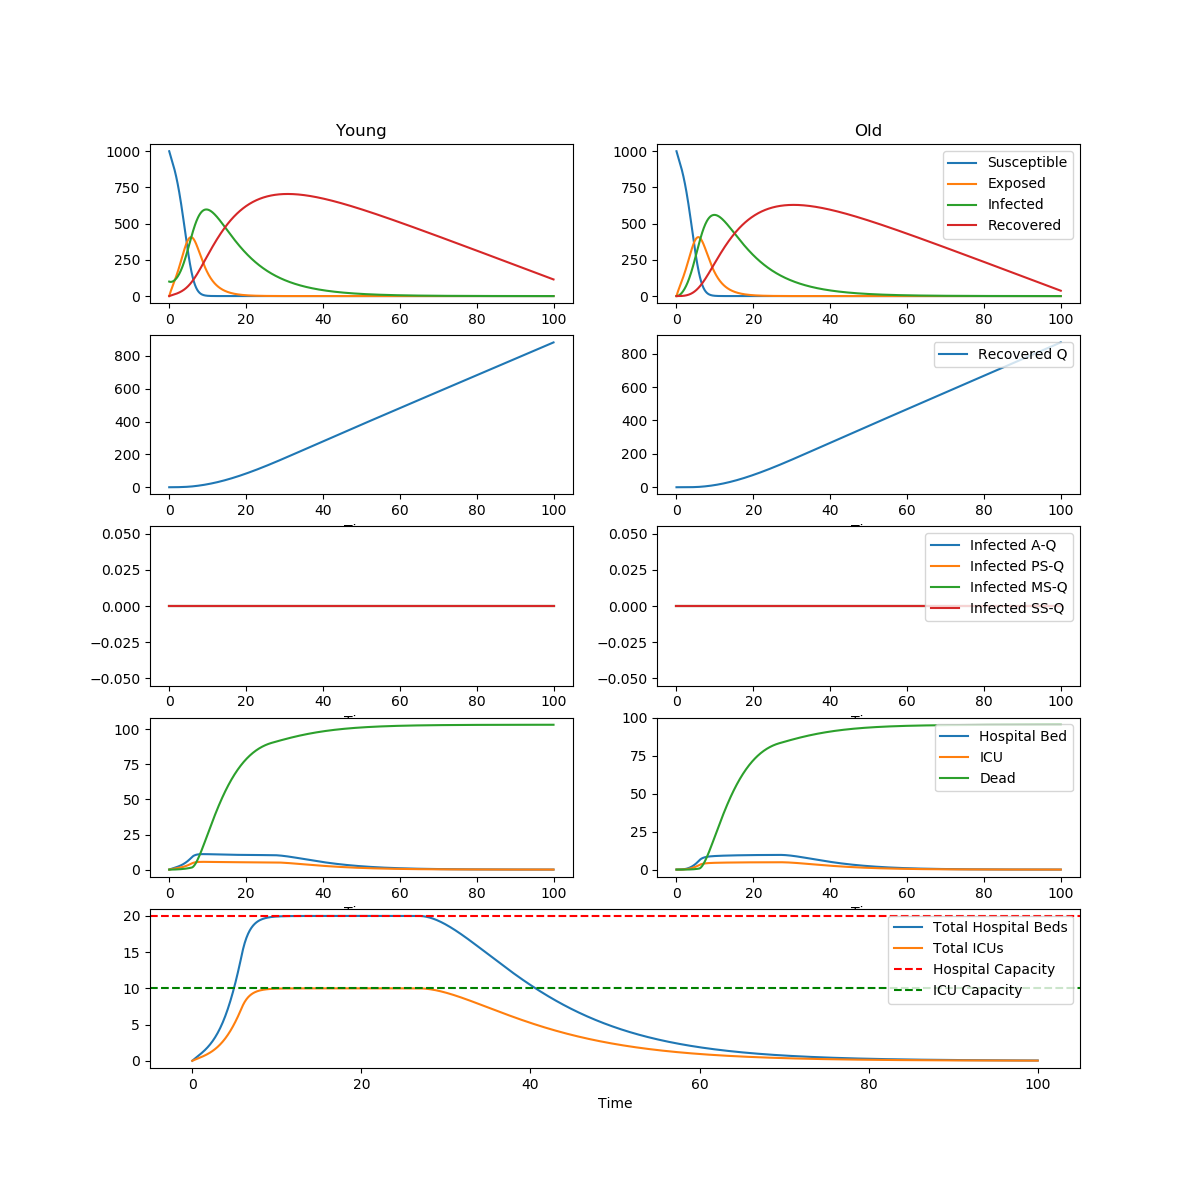
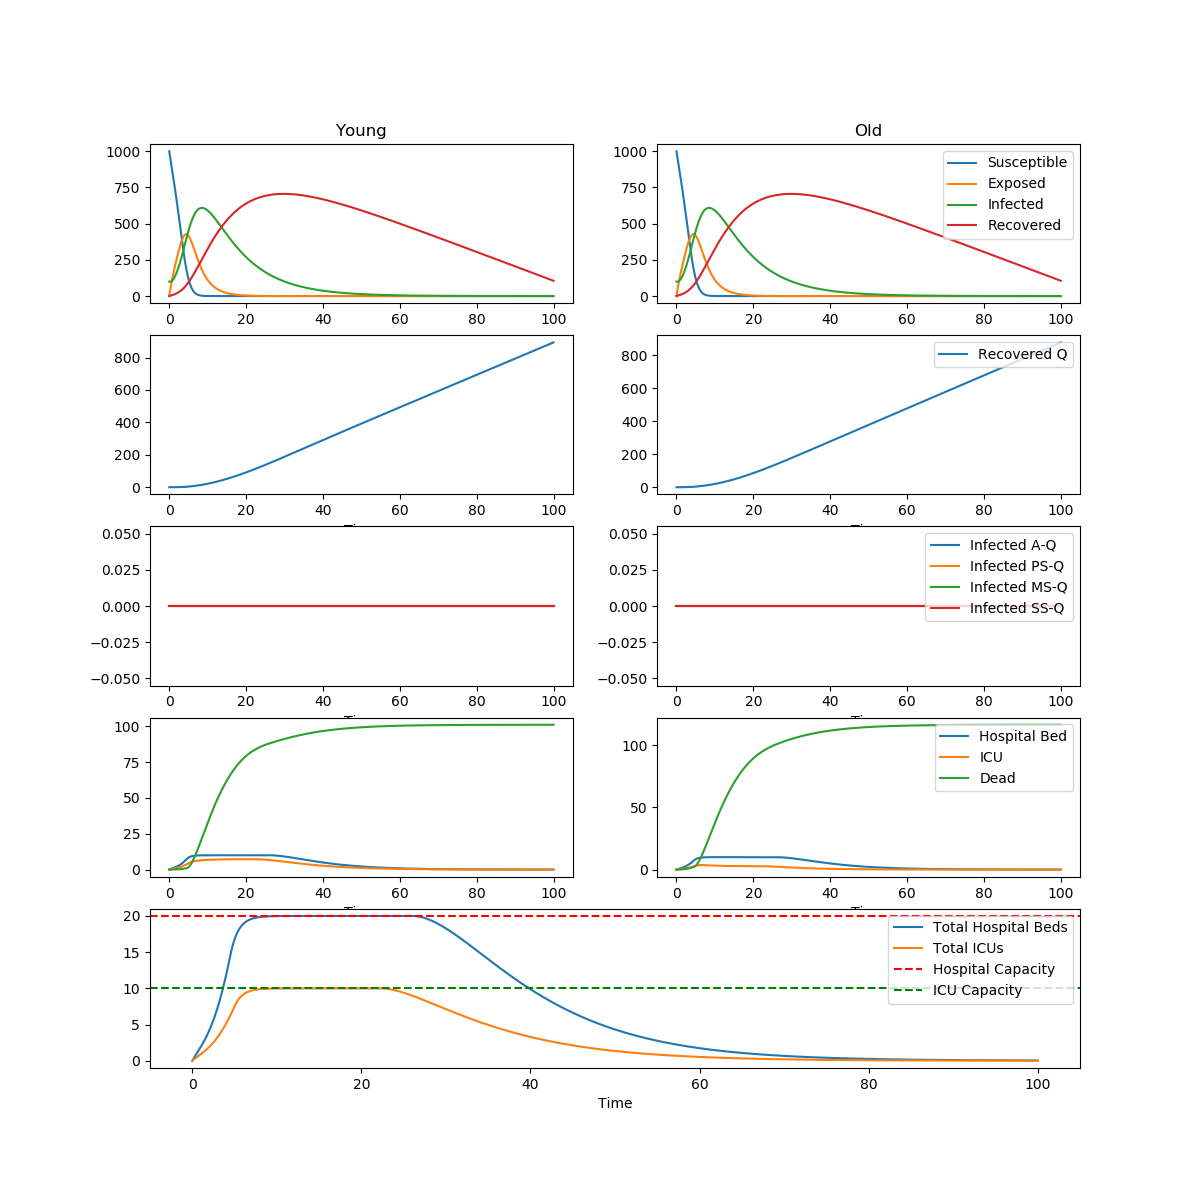
fixed bugs

diff --git a/group.py b/group.py
@@ -158,10 +158,10 @@ class SEIR_group:
 		self.E = [float(initial_conditions['E'])]
 		# Infected (unquarantined)
 		self.I = [float(initial_conditions['I'])]
-		# Unquarantined patients 
-		self.N = [self.S[0] + self.E[0] + self.I[0]]
 		# Recovered (unquarantined)
 		self.R = [float(initial_conditions['R'])]
+		# Unquarantined patients 
+		self.N = [self.S[0] + self.E[0] + self.I[0]+ self.R[0]]
 
 		# Infected quarantined with different degrees of severity
 		self.Ia = [float(initial_conditions['Ia'])]
@@ -285,11 +285,12 @@ class SEIR_group:
 
 	# Updates recovered
 	def update_R(self, m_tests, a_tests):
-		delta_R = self.parameters['mu']*(1-self.parameters["p_H"]+self.parameters["p_ICU"])*self.I[self.t] - a_tests*self.R[self.t]/self.N[self.t]
+		delta_R = self.parameters['mu']*(1-self.parameters["p_H"]-self.parameters["p_ICU"])*self.I[self.t] - a_tests*self.R[self.t]/self.N[self.t]
 		self.R += [self.R[self.t]+delta_R*self.dt]
 
+
 	def update_R_upper(self, m_tests, a_tests, rho, B_ICU, B_H):
-		delta_R = self.parameters['mu']*(1-self.parameters["p_H"]+self.parameters["p_ICU"])*self.I[self.t] - a_tests
+		delta_R = self.parameters['mu']*(1-self.parameters["p_H"]-self.parameters["p_ICU"])*self.I[self.t] - a_tests
 		self.R += [self.R[self.t]+delta_R*self.dt]
 
 
@@ -337,6 +338,7 @@ class SEIR_group:
 		)
 		self.Rq += [self.Rq[self.t]+delta_Rq*self.dt]
 
+
 	def update_Rq_upper(self, m_tests, a_tests, rho, B_ICU, B_H):
 		delta_Rq = (
 			self.parameters['mu']*(self.Ia[self.t]+self.Ips[self.t]+self.Ims[self.t]) + 
@@ -359,14 +361,10 @@ class SEIR_group:
 			summ_entering_h += entering_h[n]
 			summ_staying_h += (1-g.parameters['lambda_H_R']-g.parameters['lambda_H_D'])*g.H[self.t]
 		
-		# Calculate number of beds
-		beds = h_cap
-		for n,g in self.all_groups.iteritems():
-			beds-=g.H[self.t]
 
 		delta_H = (
 			- (self.parameters["lambda_H_R"] + self.parameters["lambda_H_D"])*self.H[self.t]
-			+ entering_h[self.name]*(1-(summ_entering_h-beds+summ_staying_h if summ_entering_h-beds+summ_staying_h>0 else 0)/(summ_entering_h if summ_entering_h!=0 else 10e-6))
+			+ entering_h[self.name]*(1-(summ_entering_h-h_cap+summ_staying_h if summ_entering_h-h_cap+summ_staying_h>0 else 0)/(summ_entering_h if summ_entering_h!=0 else 10e-6))
 		)
 		self.H += [self.H[self.t]+delta_H*self.dt]
 
@@ -391,14 +389,9 @@ class SEIR_group:
 			summ_staying_icu += (1-g.parameters['lambda_ICU_R']-g.parameters['lambda_ICU_D'])*g.ICU[self.t]			
 
 
-		# Calculate number of ICUs
-		icus = icu_cap
-		for n,g in self.all_groups.iteritems():
-			icus-=g.H[self.t]
-
 		delta_ICU = (
 			- (self.parameters["lambda_ICU_R"] + self.parameters["lambda_ICU_D"])*self.ICU[self.t]
-			+ entering_icu[self.name]*(1-(summ_entering_icu-icus+summ_staying_icu if summ_entering_icu-icus+summ_staying_icu>0 else 0)/(summ_entering_icu if summ_entering_icu!=0 else 10e-6))
+			+ entering_icu[self.name]*(1-(summ_entering_icu-icu_cap+summ_staying_icu if summ_entering_icu-icu_cap+summ_staying_icu>0 else 0)/(summ_entering_icu if summ_entering_icu!=0 else 10e-6))
 		)
 		self.ICU += [self.ICU[self.t]+delta_ICU*self.dt]
 
@@ -426,10 +419,6 @@ class SEIR_group:
 			entering_h[n] = self.all_groups[n].flow_H(self.t)
 			summ_entering_h += entering_h[n]
 			summ_staying_h += (1-g.parameters['lambda_H_R']-g.parameters['lambda_H_D'])*g.H[self.t]
-		# Calculate number of beds
-		beds = h_cap
-		for n,g in self.all_groups.iteritems():
-			beds-=g.H[self.t]
 
 		entering_icu = {}
 		summ_entering_icu = 0
@@ -438,16 +427,13 @@ class SEIR_group:
 			entering_icu[n] = self.all_groups[n].flow_ICU(self.t)
 			summ_entering_icu += entering_icu[n]
 			summ_staying_icu += (1-g.parameters['lambda_ICU_R']-g.parameters['lambda_ICU_D'])*g.ICU[self.t]	
-		# Calculate number of ICUs
-		icus = icu_cap
-		for n,g in self.all_groups.iteritems():
-			icus-=g.H[self.t]
+
 
 		delta_D = (
 			self.parameters["lambda_H_D"]*self.H[self.t] 
 			+ self.parameters["lambda_ICU_D"]*self.ICU[self.t]
-			+ entering_icu[self.name]*((summ_entering_icu-icus+summ_staying_icu if summ_entering_icu-icus+summ_staying_icu>0 else 0)/(summ_entering_icu if summ_entering_icu!=0 else 10e-6))
-			+ entering_h[self.name]*((summ_entering_h-beds+summ_staying_h if summ_entering_h-beds+summ_staying_h>0 else 0)/(summ_entering_h if summ_entering_h!=0 else 10e-6))
+			+ entering_icu[self.name]*((summ_entering_icu-icu_cap+summ_staying_icu if summ_entering_icu-icu_cap+summ_staying_icu>0 else 0)/(summ_entering_icu if summ_entering_icu!=0 else 10e-6))
+			+ entering_h[self.name]*((summ_entering_h-h_cap+summ_staying_h if summ_entering_h-h_cap+summ_staying_h>0 else 0)/(summ_entering_h if summ_entering_h!=0 else 10e-6))
 		)
 
 		self.D += [self.D[self.t]+delta_D*self.dt]
